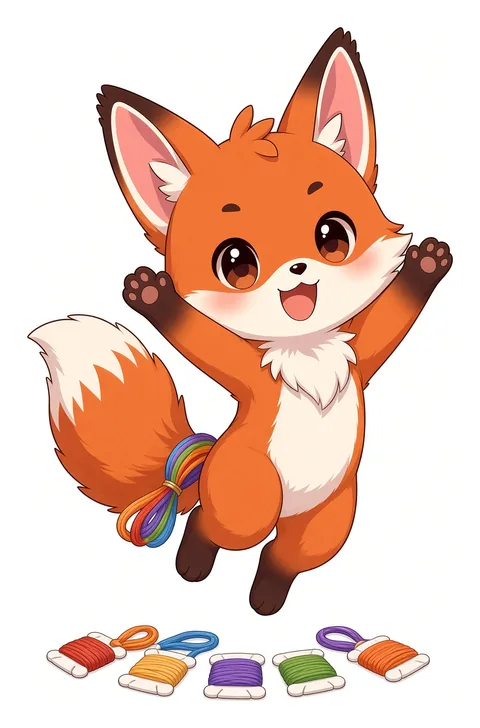
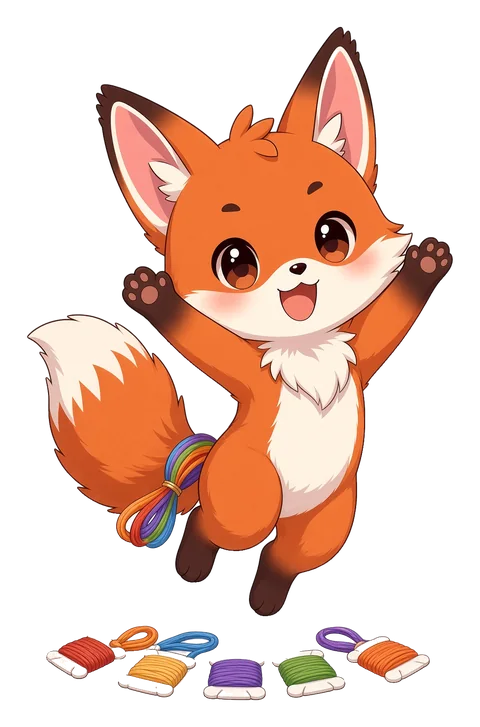
1.4 (dev): transparent Pip art (13 poses, WebP+PNG alpha, no JPG), no white tile; new poses thinking/pointing/peeking/neutral/greeting-alt with real triggers; tests

diff --git a/index.html b/index.html
@@ -78,7 +78,7 @@ mark.badline{background:#FBE3DA;color:var(--ink);border-radius:4px;padding:0 4px
 /* Pip companion */
 .herogrid{display:grid;gap:var(--s3)}
 .pip{display:grid;grid-template-columns:84px minmax(0,1fr);grid-template-areas:"fig msg" "tog msg";grid-template-rows:118px 44px;column-gap:var(--s3);row-gap:0}
-.pipfig{grid-area:fig;width:84px;height:118px;background:#fff;border:1px solid var(--line);border-radius:var(--r-m,14px);display:flex;align-items:center;justify-content:center;overflow:hidden}
+.pipfig{grid-area:fig;width:84px;height:118px;background:transparent;border:1px solid transparent;border-radius:var(--r-m,14px);display:flex;align-items:center;justify-content:center;overflow:hidden}
 .piphi{all:unset;display:block;width:100%;height:100%;cursor:pointer;border-radius:inherit}.piphi:focus-visible{outline:3px solid var(--sage-ink);outline-offset:-3px}.pipbubble.quiet{visibility:hidden}
 .pipfig img{width:100%;height:100%;object-fit:contain;padding:4px;display:block}
 .pipbubble{grid-area:msg;align-self:center;position:relative;margin:0;background:#fff;color:var(--ink);border:1px solid var(--line);border-radius:16px;padding:9px 13px;font-size:.92rem;line-height:1.38}
@@ -178,7 +178,9 @@ code{font-family:var(--mono);font-size:.9em;background:var(--surface-2);border-r
 .tourcard .tstep{font-size:.8rem;font-weight:700;color:var(--sage-ink);margin:0 0 2px}.tourcard .row{grid-column:1/-1;margin:4px 0 0;flex-wrap:wrap;gap:8px}.tourcard .row button{min-height:44px}
 .tourcard.invite{margin:0 0 var(--s2);padding:10px 12px;gap:6px 10px}.tourcard.invite .tmsg{margin:0;font-weight:650}.tourcard.invite .row{margin:0;flex-wrap:nowrap;gap:6px}.tourcard.invite .row button{padding:0 12px;font-size:.9rem;white-space:nowrap}@media(max-width:360px){#tourInvite .row button{padding:0 8px;font-size:.8rem;min-width:0}#tourInvite .row .ghost{padding:0 4px}.tourcard.invite{grid-template-columns:40px minmax(0,1fr)}.tourcard.invite .tpip{width:40px;height:54px}}.pip.inviting{display:none!important}
 .tour-target{outline:3px solid #c8642f!important;outline-offset:3px;box-shadow:0 0 0 7px rgba(200,100,47,.16);border-radius:10px}
-.askpip .atopics{display:flex;flex-wrap:wrap;gap:8px;margin:8px 0}.askpip .atopics button{min-height:44px}.askpip .ahead{display:flex;gap:10px;align-items:flex-start}.askpip .ahead img{width:44px;height:60px;object-fit:contain;flex:none}.askpip h2{font-size:1.05rem;margin:0}.askpip h2::before{content:none}.askpip .aans{background:var(--sage-50,#EEF3EE);border-radius:12px;padding:8px 12px;margin:6px 0}.hintpref{display:inline-flex;gap:8px;align-items:center;min-height:44px}.hintpref input{width:20px;height:20px}
+.askpip .atopics{display:flex;flex-wrap:wrap;gap:8px;margin:8px 0}.askpip .atopics button{min-height:44px}.askpip .ahead{display:flex;gap:10px;align-items:flex-start}.askpip{position:relative}.askpip .ahead img{width:44px;height:60px;object-fit:contain;flex:none}.askpip .apeek{display:none}
+@media(max-width:879px){.askpip{padding-right:62px;overflow:hidden}.askpip .ahead.peek>picture{display:none}.askpip .apeek{display:block;position:absolute;right:0;top:10px;width:52px;height:72px;pointer-events:none}.askpip .apeek img{width:100%;height:100%;object-fit:contain;object-position:right center;display:block}.askpipbtn img{object-position:right center}}
+.tourcard .tpip.mirror{transform:scaleX(-1)}.rpip{width:40px;height:56px;object-fit:contain;float:left;margin:0 10px 4px 0}.askpip h2{font-size:1.05rem;margin:0}.askpip h2::before{content:none}.askpip .aans{background:var(--sage-50,#EEF3EE);border-radius:12px;padding:8px 12px;margin:6px 0}.hintpref{display:inline-flex;gap:8px;align-items:center;min-height:44px}.hintpref input{width:20px;height:20px}
 @media (max-width:420px){.askpipbtn{padding:0 10px 0 4px}.tourcard{grid-template-columns:44px minmax(0,1fr);padding:10px 12px}.tourcard .tpip{width:44px;height:60px}}
 .psum .headline{position:relative;font-size:1.25rem;font-weight:800;margin:0 0 var(--s2);display:flex;align-items:center;gap:var(--s2)}
 .psum[data-ready=true]{background:var(--ok-bg);border-color:var(--ok-line)}
@@ -239,7 +241,7 @@ code{font-family:var(--mono);font-size:.9em;background:var(--surface-2);border-r
 @media print{.tabs,#helpView{display:none!important}.psum{box-shadow:none;border:1px solid #000}.tcard,.scard{break-inside:avoid}}
 </style>
 </head><body><div class="wrap">
-<header><svg class="logo" viewBox="0 0 64 64" role="img" aria-label="Floss Fox logo"><path d="M10 8l14 14h16L54 8l-2 26-20 24L12 34z" fill="#c8642f"/><path d="M14 13l9 10-7 6zM50 13l-9 10 7 6z" fill="#7a3a22"/><path d="M12 34l20 24 20-24-12 2-8 10-8-10z" fill="#fbf3e6"/><circle cx="24" cy="31" r="2.6" fill="#3b2f28"/><circle cx="40" cy="31" r="2.6" fill="#3b2f28"/><path d="M29 47h6l-3 4z" fill="#3b2f28"/><path d="M4 60c10-6 18-2 28-6s18 0 28-4" stroke="#5f7a5c" stroke-width="2.5" fill="none" stroke-linecap="round" stroke-dasharray="5 4"/></svg><div class="t"><p class="brand" id="appname"></p><p class="tagline">Thread lists for cross stitch</p></div><button type="button" class="askpipbtn noprint" id="askPipBtn" aria-expanded="false" aria-controls="askPip"><img src="assets/pip/pip-curious-160.jpg" width="160" height="215" alt="" decoding="async"> Ask Pip</button></header>
+<header><svg class="logo" viewBox="0 0 64 64" role="img" aria-label="Floss Fox logo"><path d="M10 8l14 14h16L54 8l-2 26-20 24L12 34z" fill="#c8642f"/><path d="M14 13l9 10-7 6zM50 13l-9 10 7 6z" fill="#7a3a22"/><path d="M12 34l20 24 20-24-12 2-8 10-8-10z" fill="#fbf3e6"/><circle cx="24" cy="31" r="2.6" fill="#3b2f28"/><circle cx="40" cy="31" r="2.6" fill="#3b2f28"/><path d="M29 47h6l-3 4z" fill="#3b2f28"/><path d="M4 60c10-6 18-2 28-6s18 0 28-4" stroke="#5f7a5c" stroke-width="2.5" fill="none" stroke-linecap="round" stroke-dasharray="5 4"/></svg><div class="t"><p class="brand" id="appname"></p><p class="tagline">Thread lists for cross stitch</p></div><button type="button" class="askpipbtn noprint" id="askPipBtn" aria-expanded="false" aria-controls="askPip"><picture><source media="(max-width:879px)" type="image/webp" srcset="assets/pip/pip-peeking-160.webp"><source media="(max-width:879px)" srcset="assets/pip/pip-peeking-160.png"><source type="image/webp" srcset="assets/pip/pip-curious-160.webp"><img src="assets/pip/pip-curious-160.png" width="160" height="214" alt="" decoding="async"></picture> Ask Pip</button></header>
 <nav class="tabs noprint" aria-label="Main"><button type="button" id="tabConvert" aria-pressed="true" aria-current="page"><span aria-hidden="true">🧵</span> Add colors</button><button type="button" id="tabProjects" aria-pressed="false"><span aria-hidden="true">📁</span> My projects <span id="projCount"></span></button><button type="button" id="tabHelp" aria-pressed="false"><span aria-hidden="true">💬</span> Help</button></nav>
 <section id="askPip" class="askpip noprint" hidden aria-labelledby="askPipH"></section>
 <div id="tourLive" class="sr" aria-live="polite"></div>
@@ -248,7 +250,7 @@ code{font-family:var(--mono);font-size:.9em;background:var(--surface-2);border-r
 <h1 id="heroH">Your thread list, made simple.</h1>
 <p class="lead">Paste your DMC colors, see what you need, and make a shopping list in seconds.</p>
 <ol class="steps" aria-label="How it works"><li><span class="num" aria-hidden="true">1</span> Add your colors</li><li><span class="num" aria-hidden="true">2</span> Check what you have</li><li><span class="num" aria-hidden="true">3</span> Get your shopping list</li></ol>
-<div class="herogrid"><aside id="pip" class="pip" aria-label="Pip, your helper"><div class="pipfig" id="pipFig"><button type="button" class="piphi" id="pipHi" aria-label="Say hi to Pip"><picture><source id="pipSrc" type="image/webp" srcset="assets/pip/pip-greeting-160.webp 160w, assets/pip/pip-greeting-320.webp 320w, assets/pip/pip-greeting-480.webp 480w" sizes="(min-width:880px) 170px, 84px"><img id="pipImg" data-art="greeting" src="assets/pip/pip-greeting-320.jpg" srcset="assets/pip/pip-greeting-160.jpg 160w, assets/pip/pip-greeting-320.jpg 320w, assets/pip/pip-greeting-480.jpg 480w" sizes="(min-width:880px) 170px, 84px" width="320" height="465" alt="" decoding="async"></picture></button></div><p class="pipbubble" id="pipMsg"></p><button class="piptog" id="pipToggle" type="button" aria-controls="pipFig pipMsg" aria-expanded="true">Hide Pip</button></aside><div class="heromain">
+<div class="herogrid"><aside id="pip" class="pip" aria-label="Pip, your helper"><div class="pipfig" id="pipFig"><button type="button" class="piphi" id="pipHi" aria-label="Say hi to Pip"><picture><source id="pipSrc" type="image/webp" srcset="assets/pip/pip-greeting-160.webp 160w, assets/pip/pip-greeting-320.webp 320w, assets/pip/pip-greeting-480.webp 480w" sizes="(min-width:880px) 170px, 84px"><img id="pipImg" data-art="greeting" src="assets/pip/pip-greeting-320.png" srcset="assets/pip/pip-greeting-160.png 160w, assets/pip/pip-greeting-320.png 320w, assets/pip/pip-greeting-480.png 480w" sizes="(min-width:880px) 170px, 84px" width="320" height="465" alt="" decoding="async"></picture></button></div><p class="pipbubble" id="pipMsg"></p><button class="piptog" id="pipToggle" type="button" aria-controls="pipFig pipMsg" aria-expanded="true">Hide Pip</button></aside><div class="heromain">
 <div id="exampleBanner" class="banner" role="status" hidden><span><b>You're trying an example.</b> These colors are a sample, not your thread. Nothing is saved unless you choose to.</span> <button type="button" class="sec small" id="exitExample">Back to my list</button></div>
 <label for="inp" class="biglabel">Paste your DMC color list</label>
 <textarea id="inp" placeholder="310, 321, 666, 823" aria-describedby="inpHint"></textarea>

diff --git a/pip.js b/pip.js
@@ -1,10 +1,13 @@
 /* Pip, the Floss Fox companion. Deterministic: reads the converter's existing parse result. No network, no AI. */
 (()=>{'use strict';
 const PIP_KEY='flossfox.pip.v1';           // stores only "shown"/"hidden"
+// Returning visitor = the tour was already completed or dismissed (tour.js pref). Read-only here.
+const returning=(()=>{try{const t=JSON.parse(localStorage.getItem(PIP_KEY.replace(/\.pip\.v1$/,'.tour.v1'))||'null');return !!t&&(t.status==='done'||t.status==='dismissed')}catch(e){return false}})();
 const SIZES=[160,320,480];
-// Poses that have real artwork. Poses without art fall back to an existing one; 'thinking' has no art and its state is never shown.
-const ART={greeting:'greeting',curious:'curious',puzzled:'puzzled',duplicates:'duplicates',helpful:'helpful',tangled:'tangled',celebrating:'celebrating',sleepy:'sleepy'};
-const FUTURE={thinking:'curious',proud:'greeting',peeking:'curious',teaching:'curious'};
+// Poses with real (transparent) artwork. 'thinking' is used only for real checks (Ask Pip answers, backup check); the 'processing' state stays unused (no fake delays).
+const ART={greeting:'greeting',curious:'curious',puzzled:'puzzled',duplicates:'duplicates',helpful:'helpful',tangled:'tangled',celebrating:'celebrating',sleepy:'sleepy',
+ thinking:'thinking',pointing:'pointing',peeking:'peeking',neutral:'neutral','greeting-alt':'greeting-alt'};
+const FUTURE={proud:'greeting',teaching:'curious'};
 const poseArt=p=>ART[p]||ART[FUTURE[p]]||'greeting';
 const short=t=>{t=String(t).replace(/\s+/g,' ').trim();return t.length>24?t.slice(0,23)+'…':t};
 function errMsg(r){if(r.errs.length>1)return`${r.errs.length} entries need a look. Check the highlighted lines below.`;const e=r.errs[0],x=short(e.t);
@@ -20,11 +23,13 @@ const TANGLE=["Oops! Got a little tangled up!","I meant to do that. Probably."];
    Base states come from the parse result; celebrating/tangled/sleepy are short overlays on top of a calm base. */
 const STATES={
  welcome:    {pose:'greeting',   pri:10, anim:'pop',   msg:()=>"Hi! I'm Pip. Let's get your threads sorted!"},
+ welcomeBack:{pose:'greeting-alt',pri:10,anim:'pop',   msg:()=>'Welcome back! Ready for another list?'},
+ idle:       {pose:'neutral',    pri:12, anim:'fade',  msg:()=>'Paste a list whenever you\'re ready.'},
  attentive:  {pose:'curious',    pri:20, anim:'tilt',  msg:()=>'Ready when you are!'},
  empty:      {pose:'curious',    pri:20, anim:'tilt',  msg:()=>'Add a few thread numbers to get started.'},
  listReady:  {pose:'curious',    pri:20, anim:'tilt',  msg:()=>"Your colors are ready! Let's see what you have."},
  helpful:    {pose:'helpful',    pri:25, anim:'pop',   msg:()=>{const a=alt();return a&&a.matched?`Look! I found ${a.brand} options for ${a.matched} of your ${plural(a.total,'color')}.`:''}},
- processing: {pose:'thinking',   pri:30, anim:'fade',  msg:()=>'Let me look at your list…'}, // reserved: no 'thinking' art and parsing is instant, so never shown
+ processing: {pose:'thinking',   pri:30, anim:'fade',  msg:()=>'Let me look at your list…'}, // reserved: parsing is instant, so never shown (no fake delays)
  celebrating:{pose:'celebrating',pri:35, anim:'cheer', msg:()=>'Yay! Your list is ready!'},
  duplicate:  {pose:'duplicates', pri:40, anim:'pop',   msg:r=>r.items.filter(i=>i.src.length>1).length===1?"Found a repeat! I've combined it for you.":"Found some repeats! I've combined them for you."},
  error:      {pose:'puzzled',    pri:50, anim:'tilt',  msg:errMsg},
@@ -35,27 +40,27 @@ const STATES={
  hintCompare:{pose:'helpful',    pri:22, anim:'pop',   msg:()=>{const n=window.FlossFoxAltFor?Math.max(FlossFoxAltFor('sullivans'),FlossFoxAltFor('anchor')):0;return n?'Want to compare another thread brand? Try "Brand to buy" in your shopping list.':''}}
 };
 const CALM=25; // overlays (tangled, sleepy) only sit on a base at or below this priority
-function stateFor(r,submitted){const c=['welcome'];
+function stateFor(r,submitted){const c=[greeted?'idle':returning?'welcomeBack':'welcome'];
  if(r.errs.length)c.push('error');if(r.items.some(i=>i.src.length>1))c.push('duplicate');
  if(r.items.length){c.push('listReady');const a=alt();if(a&&a.matched)c.push('helpful')}else if(submitted&&!r.errs.length)c.push('empty');
  return c.sort((a,b)=>STATES[b].pri-STATES[a].pri)[0]}
 const $=id=>document.getElementById(id);
 const el=$('pip');if(!el)return;
 const img=$('pipImg'),src=$('pipSrc'),msg=$('pipMsg'),fig=$('pipFig'),tog=$('pipToggle'),hi=$('pipHi');
-let touring=false,cur=null,base='welcome',lastR={items:[],errs:[]},over=null,overT=0,celebrated=false;
+let greeted=false,touring=false,cur=null,base='welcome',lastR={items:[],errs:[]},over=null,overT=0,celebrated=false;
 const T={celebrate:4000,tangle:2600,tangleGap:60000,idle:90000,minSleep:4000,throttle:1000};
 const set=(a,ext)=>SIZES.map(w=>`assets/pip/pip-${a}-${w}.${ext} ${w}w`).join(', ');
 function show(name,r,anim=true){const S=STATES[name];if(!S)return;if(r)lastR=r;const text=S.msg(lastR);
  if(cur===name&&msg.textContent===text)return; // nothing meaningful changed
  const a=poseArt(S.pose);cur=name;el.dataset.state=name;el.dataset.pose=a;
- if(img.dataset.art!==a){src.srcset=set(a,'webp');img.srcset=set(a,'jpg');img.src=`assets/pip/pip-${a}-320.jpg`;img.dataset.art=a}
+ if(img.dataset.art!==a){src.srcset=set(a,'webp');img.srcset=set(a,'png');img.src=`assets/pip/pip-${a}-320.png`;img.dataset.art=a}
  msg.textContent=text;msg.classList.toggle('quiet',!text);
  fig.classList.remove('pip-pop','pip-tilt','pip-fade','pip-cheer','pip-wiggle','pip-doze');if(anim){void fig.offsetWidth;fig.classList.add('pip-'+S.anim)}}
 const clearOver=()=>{clearTimeout(overT);over=null};
 function overlay(name,ms){clearOver();over=name;show(name);if(ms)overT=setTimeout(()=>{over=null;show(base,null,false)},ms)} // settle quietly: no new animation
 const quiet=()=>fig.hidden||document.hidden;
 // Called by the converter on every recalculation.
-function result(r,submitted){lastR=r;base=stateFor(r,submitted);
+function result(r,submitted){greeted=true;lastR=r;base=stateFor(r,submitted);
  if(STATES[base].pri>STATES.celebrating.pri)clearOver();          // errors/duplicates interrupt anything
  else if(over==='sleepy'||over==='tangled'||(over&&over.startsWith('hint')))clearOver();            // real input ends play and sleep
  const ex=typeof window.isExample==='function'&&window.isExample();
@@ -76,7 +81,7 @@ function arm(){clearTimeout(idleT);if(document.hidden||over==='sleepy')return;id
 function sleep(){if(touring||quiet()||over||STATES[base].pri>CALM)return arm();sleptAt=performance.now();overlay('sleepy',0)}
 function wake(){if(over!=='sleepy')return;const left=T.minSleep-(performance.now()-sleptAt);
  if(left>0){clearTimeout(overT);overT=setTimeout(wake,left);return}
- clearOver();show(base==='welcome'?'attentive':base,null,false);fig.classList.add('pip-fade');arm()}
+ clearOver();show(['welcome','welcomeBack','idle'].includes(base)?'attentive':base,null,false);fig.classList.add('pip-fade');arm()}
 function activity(){const now=performance.now();if(over==='sleepy')return wake();if(now-lastAct<T.throttle)return;lastAct=now;arm()}
 ['pointerdown','pointermove','keydown','scroll','wheel','touchstart'].forEach(e=>window.addEventListener(e,activity,{passive:true,capture:true}));
 document.addEventListener('visibilitychange',()=>{if(document.hidden)clearTimeout(idleT);else arm()});
@@ -95,11 +100,13 @@ const api={result,show,stateFor,STATES,ART,FUTURE,current:()=>cur,base:()=>base,
  hint:n=>{const S=STATES[n];if(!S||touring||over||quiet()||STATES[base].pri>CALM||!S.msg(lastR))return false;overlay(n,9000);arm();return true},
  _timing:o=>{Object.assign(T,o);arm();return{...T}}};
 /* global state */
-if(typeof state!=='undefined'&&(state.items.length||state.errs.length)){lastR=state;base=stateFor(state,true);show(base,state)}else show('welcome');
-const warm=()=>{const w=img.currentSrc&&/-(\d+)\.(webp|jpg)/.exec(img.currentSrc);const size=w?w[1]:'320',ext=w?w[2]:'webp';
- Object.values(ART).forEach(a=>{if(a!=='greeting'){const i=new Image();i.decoding='async';i.src=`assets/pip/pip-${a}-${size}.${ext}`}})};
+if(typeof state!=='undefined'&&(state.items.length||state.errs.length)){lastR=state;base=stateFor(state,true);show(base,state)}else{base=stateFor({items:[],errs:[]},false);show(base)}
+const warm=()=>{const w=img.currentSrc&&/-(\d+)\.(webp|png)/.exec(img.currentSrc);const size=w?w[1]:'320',ext=w?w[2]:'webp';
+ Object.values(ART).forEach(a=>{if(a!=='greeting'&&!['peeking','pointing','thinking'].includes(a)){const i=new Image();i.decoding='async';i.src=`assets/pip/pip-${a}-${size}.${ext}`}})};
 window.addEventListener('load',()=>(window.requestIdleCallback||setTimeout)(warm,{timeout:3000}));
-const inp=$('inp');inp.addEventListener('focus',()=>{if(cur==='welcome'&&!inp.value.trim())show('attentive')});
+const inp=$('inp');inp.addEventListener('focus',()=>{if(['welcome','welcomeBack','idle'].includes(cur)&&!inp.value.trim())show('attentive')});
+// Leaving an empty box: settle to the calm idle companion (curious stays for focus/exploring).
+inp.addEventListener('blur',()=>{if(cur==='attentive'&&!inp.value.trim()&&!over){greeted=true;base='idle';show('idle')}});
 arm();
 window.FlossFoxPip=api;
 })();

diff --git a/tour.js b/tour.js
@@ -15,7 +15,7 @@ const st=()=>(typeof state!=='undefined'?state:{items:[],errs:[]}); /* global st
 const dupN=()=>st().items.filter(i=>i.src.length>1).length;
 const destV=()=>($('dest')||{}).value||'dmc';
 const BR={dmc:'DMC',sullivans:'Sullivans',anchor:'Anchor'};
-const pipImg=(pose,cls)=>`<picture><source type="image/webp" srcset="assets/pip/pip-${pose}-160.webp"><img class="${cls}" src="assets/pip/pip-${pose}-160.jpg" width="160" height="215" alt="" decoding="async"></picture>`;
+const pipImg=(pose,cls)=>`<picture><source type="image/webp" srcset="assets/pip/pip-${pose}-160.webp"><img class="${cls}" src="assets/pip/pip-${pose}-160.png" width="160" height="240" alt="" decoding="async"></picture>`;
 const plural=(n,w)=>`${n} ${w}${n===1?'':'s'}`;
 const TOUR_SAMPLE='310\n321\n666\n699';
 const linksOn=()=>!!(window.FlossFoxLinks&&FlossFoxLinks.enabled&&FlossFoxLinks.enabled());
@@ -25,7 +25,7 @@ const toConvert=()=>{if(!inView('convertView'))$('tabConvert').click()};
 /* ---------- Step configuration (single source of truth) ---------- */
 const STEPS=[
  {id:'enter',title:'Add your colors',target:()=>$('inp'),anchor:()=>document.querySelector('.hero .row'),
-  pose:()=>st().errs.length?'puzzled':'curious',
+  pose:()=>st().errs.length?'puzzled':'pointing',
   msg:()=>"First, pop your DMC thread numbers in here! You can type them or paste your whole list.",
   more:()=>st().errs.length?`${plural(st().errs.length,'line')} couldn't be read yet. They're listed in red under Your colors.`:st().items.length?`You've added ${plural(st().items.length,'color')}. Tap Next when you're ready.`:"Then tap Add my colors. Want to practise first? I can fill in a short sample list.",
   extra:()=>st().items.length?'':`<button type="button" class="sec" data-t="example">Try an example (310, 321, 666, 699)</button>`,
@@ -42,13 +42,13 @@ const STEPS=[
   ready:()=>!$('results').hidden,
   help:'Swatches show the DMC color on screen, which is only an approximation.'},
  {id:'brands',title:'Other thread brands',target:()=>$('shopcard').hidden?null:$('dest'),anchor:()=>document.querySelector('#shopcard .toggle'),
-  pose:()=>'helpful',
+  pose:()=>'pointing',
   msg:()=>"Did you know you can look at other thread brands too? Let's explore your options!",
   more:()=>`Use <b>Brand to buy</b> to switch between DMC, Sullivans and Anchor. Matches come from published conversion charts, so colors may not be exact. Compare real thread if it matters. The cost table shows rough price estimates for each brand, before shipping; prices change, so check the store.${destV()!=='dmc'?` You're looking at ${BR[destV()]} now: ${plural(window.FlossFoxAltFor?FlossFoxAltFor(destV()):0,'color')} of ${st().items.length} have a chart match.`:''}`,
   ready:()=>!$('shopcard').hidden,optional:true,
   help:'Metallic and variegated threads are never swapped automatically.'},
  {id:'shop',title:'Your shopping list',target:()=>$('shopcard').hidden?null:$('shop'),anchor:()=>$('shop'),
-  pose:()=>'helpful',
+  pose:()=>'pointing',
   msg:()=>"Now let's get your threads organized so they're easier to shop for!",
   more:()=>`Tick the boxes as you shop, or use <b>Print list</b> and <b>Copy as text</b> below. <b>Save project</b> keeps the list in this browser; in My projects you can mark what you have, open <b>Shop my list</b> in the store, and download a spreadsheet (CSV).${linksOn()?' Store links are optional affiliate links. You never need them to use Floss Fox.':''}`,
   ready:()=>!$('shopcard').hidden,
@@ -61,6 +61,9 @@ const STEPS=[
 ];
 
 /* ---------- Tour card ---------- */
+// Pointing Pip: his paw points to his left (screen right). Mirror him when the target's centre is to his left on screen.
+function aim(){if(!card||!tgt)return;const i=card.querySelector('.tpip');if(!i||card.dataset.pose!=='pointing')return;const a=i.getBoundingClientRect(),b=tgt.getBoundingClientRect();
+ const mir=(b.left+b.right)/2<(a.left+a.right)/2;i.classList.toggle('mirror',mir);card.dataset.mirror=mir}
 let idx=-1,card=null,tgt=null,returnFocus=null,readSince=0;
 const live=t=>{const l=$('tourLive');if(l){l.textContent='';setTimeout(()=>{l.textContent=t},30)}};
 function clearTarget(){if(tgt)tgt.classList.remove('tour-target');tgt=null}
@@ -71,12 +74,12 @@ function place(el,anchor,focus){const a=anchor&&anchor.isConnected&&anchor.offse
 function render(focus){const S=STEPS[idx];if(!S)return;toConvert();removeCard();
  const t=S.target();const missing=!t&&!S.final;const notReady=S.ready&&!S.ready();
  if(t){t.classList.add('tour-target');tgt=t}
- const c=document.createElement('section');c.className='tourcard noprint';c.id='tourCard';c.setAttribute('aria-labelledby','tourH');c.dataset.step=S.id;c.dataset.pose=S.pose();
+ const c=document.createElement('section');c.className='tourcard noprint';c.id='tourCard';c.setAttribute('aria-labelledby','tourH');c.dataset.step=S.id;let pose=S.pose();if(pose==='pointing'&&!t)pose='helpful';c.dataset.pose=pose;
  const back=idx>0?'<button type="button" class="ghost" data-t="back">Back</button>':'';
  const nextLbl=S.final?'':notReady||missing?(S.optional?'Skip this step':'Skip this step'):'Next';
  const btns=S.final?'<button type="button" class="pri" data-t="start">Start using Floss Fox</button><button type="button" class="sec" data-t="tips">Explore more tips</button>':`${S.extra?S.extra():''}<button type="button" class="pri" data-t="next">${nextLbl}</button>${back}<button type="button" class="ghost" data-t="skip">Skip tour</button>`;
- c.innerHTML=`${pipImg(S.pose(),'tpip')}<div><p class="tstep">Step ${idx+1} of ${STEPS.length}</p><h2 id="tourH" tabindex="-1">${esc(S.title)}</h2><p class="tmsg">${esc(S.msg())}</p><p class="tmore">${S.more()}</p>${missing&&!notReady?'<p class="tmore">I can\'t find that part of the page right now, so you can skip ahead.</p>':''}</div><div class="row">${btns}${S.final?back:''}<button type="button" class="ghost" data-t="close" aria-label="Close the tour">Close</button></div>`;
- card=c;place(c,t?S.anchor():null,focus);readSince=performance.now();
+ c.innerHTML=`${pipImg(pose,'tpip')}<div><p class="tstep">Step ${idx+1} of ${STEPS.length}</p><h2 id="tourH" tabindex="-1">${esc(S.title)}</h2><p class="tmsg">${esc(S.msg())}</p><p class="tmore">${S.more()}</p>${missing&&!notReady?'<p class="tmore">I can\'t find that part of the page right now, so you can skip ahead.</p>':''}</div><div class="row">${btns}${S.final?back:''}<button type="button" class="ghost" data-t="close" aria-label="Close the tour">Close</button></div>`;
+ card=c;place(c,t?S.anchor():null,focus);aim();readSince=performance.now();
  setTourPref({status:'active',step:idx});if(PIP())PIP().setTour(true)}
 function go(i,announce=true){idx=Math.max(0,Math.min(STEPS.length-1,i));render(true);if(announce)live(`Pip's tour, step ${idx+1} of ${STEPS.length}: ${STEPS[idx].title}`)}
 function start(){closeAsk(false);removeInvite();returnFocus=document.activeElement&&document.activeElement!==document.body?document.activeElement:$('askPipBtn');toConvert();go(0)}
@@ -92,7 +95,7 @@ document.addEventListener('keydown',e=>{if(e.key!=='Escape')return;if($('askPip'
 document.addEventListener('flossfox:result',e=>{if(idx<0)return;const S=STEPS[idx];
  if(S.id==='enter'&&S.done()&&e.detail.submitted&&!st().errs.length){go(1);return}
  const f=card&&card.contains(document.activeElement)?document.activeElement.dataset.t:null;render(false);if(f){const b=card.querySelector(`[data-t="${f}"]`);if(b)b.focus()}});
-window.addEventListener('resize',()=>{if(card&&tgt&&!tgt.isConnected)render(false)});
+window.addEventListener('resize',()=>{if(card&&tgt&&!tgt.isConnected)render(false);else aim()});
 
 /* ---------- First-visit invite / resume ---------- */
 let invite=null;
@@ -124,7 +127,7 @@ const TOPICS=[
  ['tour','Start the tour again','']];
 let lastTopic=null;
 function renderAsk(){const c=context();const a=TOPICS.find(t=>t[0]===lastTopic);
- ask.innerHTML=`<div class="ahead">${pipImg('helpful','')}<div><h2 id="askPipH" tabindex="-1">Ask Pip</h2><p class="actx" data-ctx="${c.key}">${esc(c.text)}</p></div></div>
+ ask.innerHTML=`${a?'':`<span class="apeek" aria-hidden="true">${pipImg('peeking','')}</span>`}<div class="ahead${a?'':' peek'}" data-pose="${a?'thinking':'helpful'}">${pipImg(a?'thinking':'helpful','')}<div><h2 id="askPipH" tabindex="-1">Ask Pip</h2><p class="actx" data-ctx="${c.key}">${esc(c.text)}</p></div></div>
  ${idx>=0?'<div class="row"><button type="button" class="pri" data-a="resume">Back to the tour</button></div>':''}
  <div class="atopics" role="group" aria-label="Help topics">${TOPICS.map(t=>`<button type="button" class="sec" data-a="${t[0]}"${t[0]===lastTopic?' aria-pressed="true"':''}>${esc(t[1])}</button>`).join('')}</div>
  ${a?`<div class="aans" id="askAns" tabindex="-1"><b>${esc(a[1])}</b><p>${esc(a[2])}</p></div>`:''}

diff --git a/projects.js b/projects.js
@@ -78,7 +78,7 @@ function plan(p){const dest=p.buyBrand,threads=[];
  return{dest,threads,lines,review:by(['review']),have:by(['have','received']),sum,ready:sum.total>0&&sum.sufficient===sum.total}}
 // Pip celebrates once per real not-ready -> ready transition (pose only, no bubble: the headline right beside it already says it).
 const CEL=()=>{setTimeout(()=>{const f=document.getElementById('pCel');if(f){f.classList.remove('pip-cheer')}},4000);
- return`<span class="pcel pipfig pip-cheer" id="pCel" aria-hidden="true"><picture><source type="image/webp" srcset="assets/pip/pip-celebrating-160.webp 160w, assets/pip/pip-celebrating-320.webp 320w" sizes="64px"><img src="assets/pip/pip-celebrating-160.jpg" width="160" height="243" alt=""></picture></span>`};
+ return`<span class="pcel pipfig pip-cheer" id="pCel" aria-hidden="true"><picture><source type="image/webp" srcset="assets/pip/pip-celebrating-160.webp 160w, assets/pip/pip-celebrating-320.webp 320w" sizes="64px"><img src="assets/pip/pip-celebrating-160.png" width="160" height="243" alt=""></picture></span>`};
 const FL=()=>window.FlossFoxLinks||{buyLinks:()=>'',retailersFor:()=>[]};
 const DISC=()=>`<p class="affdisc noprint"><b>Affiliate links:</b> Floss Fox may earn a small commission at no extra cost to you. <a href="about.html#affiliates">More info</a>${window.FLOSS_FOX_TEST_LINKS?' (Preview: test links, not tracked.)':''}</p>`;
 const plural=(n,w,ws)=>`${n} ${n===1?w:(ws||w+'s')}`;
@@ -273,11 +273,13 @@ function csv(p){const P=plan(p),q=v=>{v=v===null||v===undefined?'':String(v);if(
   rows.push([p.name,lab(it.code),DMC[it.code].name,it.qty===null?'UNKNOWN':it.qty,(a=>a===0?'yes':a>=it.qty?'assumed':'partly assumed')(asmOf(it)),d.status||'not checked',d.owned===null?'':d.owned,BRAND[P.dest],r.ok?disp(P.dest,r.to):'',r.ok?r.prov:'',line?t.rem+(line.from.length>1?` (shared line total ${line.q})`:''):'',line?(line.bought?'yes':'no'):'',t.recv||'',SN[t.state],t.why,it.qty===null?'':asmOf(it)])});
  return rows.map(r=>r.map(q).join(',')).join('\r\n')+'\r\n'}
 function backup(){const d={app:'floss-fox',schema:SCHEMA,exported:nowISO(),projects:store.projects};download(JSON.stringify(d,null,2),'floss-fox-backup-'+nowISO().slice(0,10)+'.json','application/json');pstatus(`Backup downloaded with ${store.projects.length} project(s). Keep the file somewhere safe.`)}
+const RPIP=p=>`<picture><source type="image/webp" srcset="assets/pip/pip-${p}-160.webp"><img class="rpip" data-pose="${p}" src="assets/pip/pip-${p}-160.png" width="160" height="240" alt=""></picture>`;
 function restoreFile(file){const R=$('restorePanel');if(!file)return;$('backupBox').open=true;if(file.size>5e6){R.hidden=false;R.innerHTML='<b class="warn">That file is too large to be a Floss Fox backup.</b>';return}
+ R.hidden=false;R.innerHTML=RPIP('thinking')+'<p>Let me check this backup…</p>'; // shown only while the file is really being read and checked
  file.text().then(t=>{let d;try{d=JSON.parse(t)}catch(e){d=null}const m=d&&d.app==='floss-fox'?migrate(d):null;
-  if(!m||m.tooNew){pendingRestore=null;R.hidden=false;R.innerHTML=`<b class="warn">${m&&m.tooNew?'This backup was made by a newer version of Floss Fox and can\'t be restored here.':'This file isn\'t a valid Floss Fox backup. Nothing was changed.'}</b>`;pstatus('Restore failed: nothing changed.');return}
+  if(!m||m.tooNew){pendingRestore=null;R.hidden=false;R.innerHTML=RPIP('puzzled')+`<b class="warn">${m&&m.tooNew?'This backup was made by a newer version of Floss Fox and can\'t be restored here.':'This file isn\'t a valid Floss Fox backup. Nothing was changed.'}</b>`;pstatus('Restore failed: nothing changed.');return}
   pendingRestore=m.data.projects;const clash=pendingRestore.filter(p=>proj(p.id)).length;R.hidden=false;
-  R.innerHTML=`<p><b>Backup contains ${pendingRestore.length} project(s)</b>${m.skipped?`; ${m.skipped} damaged or duplicate entr${m.skipped>1?'ies were':'y was'} skipped`:''}. ${clash?`${clash} already exist here (same project).`:'None of them already exist here.'}</p>
+  R.innerHTML=RPIP('thinking')+`<p><b>I checked it. Backup contains ${pendingRestore.length} project(s)</b>${m.skipped?`; ${m.skipped} damaged or duplicate entr${m.skipped>1?'ies were':'y was'} skipped`:''}. ${clash?`${clash} already exist here (same project).`:'None of them already exist here.'}</p>
   ${clash?`<fieldset><legend>For projects that already exist:</legend><label><input type="radio" name="rmode" value="replace" checked> Replace mine with the backup version</label><br><label><input type="radio" name="rmode" value="skip"> Keep mine, skip those</label><br><label><input type="radio" name="rmode" value="copy"> Keep both (import as a renamed copy)</label></fieldset>`:''}
   <div class="row"><button type="button" class="pri" id="rGo">Restore</button><button type="button" class="sec" id="rCancel">Cancel</button></div>`;
   $('rCancel').onclick=()=>{pendingRestore=null;R.hidden=true;pstatus('Restore cancelled.')};

diff --git a/tests/regression.py b/tests/regression.py
@@ -338,16 +338,17 @@ with sync_playwright() as p:
     PK = os.environ.get('FF_PIP_KEY', 'flossfox.pip.v1')
     pp = page(412, True); reqs = []; pp.on('request', lambda r: reqs.append(r.url)); pp.goto(B); pp.wait_for_load_state('networkidle')
     pst = lambda g: g.evaluate("[FlossFoxPip.current(), document.getElementById('pip').dataset.pose, document.getElementById('pipMsg').textContent]")
-    ok('P1 Pip appears on load with welcome (greeting)', pp.locator('#pip').is_visible() and pst(pp) == ['welcome', 'greeting', "Hi! I'm Pip. Let's get your threads sorted!"], pst(pp))
+    ok('P1 Pip appears on load; returning visitor gets welcome back (greeting-alt)', pp.locator('#pip').is_visible() and pst(pp) == ['welcomeBack', 'greeting-alt', 'Welcome back! Ready for another list?'], pst(pp))
     ok('P1b image loaded and decorative (alt=""), bubble not a live region', pp.evaluate("document.getElementById('pipImg').naturalWidth") > 0 and pp.get_attribute('#pipImg', 'alt') == '' and pp.get_attribute('#pipMsg', 'aria-live') is None)
     from urllib.parse import urlparse
     bad = []
-    for a in ['greeting', 'curious', 'puzzled', 'duplicates', 'helpful', 'tangled', 'celebrating', 'sleepy']:
+    POSES = ['greeting', 'curious', 'puzzled', 'duplicates', 'helpful', 'tangled', 'celebrating', 'sleepy', 'thinking', 'pointing', 'peeking', 'neutral', 'greeting-alt']
+    for a in POSES:
         for w in [160, 320, 480]:
-            for ext in ['webp', 'jpg']:
+            for ext in ['webp', 'png']:
                 r = pp.request.get(B + f'assets/pip/pip-{a}-{w}.{ext}')
                 if r.status != 200 or len(r.body()) > 60000: bad.append((a, w, ext, r.status, len(r.body())))
-    ok('P2 all 48 Pip files (8 poses) load and are small (<60 KB)', not bad, bad)
+    ok('P2 all 78 Pip files (13 poses, WebP + PNG) load and are small (<60 KB)', not bad, bad)
     pp.wait_for_timeout(800)
     ok('P2b no requests outside the site origin', all(urlparse(u).netloc == urlparse(B).netloc for u in reqs if u.startswith('http')), [u for u in reqs if urlparse(u).netloc != urlparse(B).netloc][:5])
     def sub(g, t): g.fill('#inp', t); g.click('#go'); return pst(g)
@@ -358,7 +359,7 @@ with sync_playwright() as p:
     s3c = sub(pp, '310, 321, 415'); ok('P3c3 later clean lists do not celebrate again', s3c[0] == 'listReady', s3c)
     s4 = sub(pp, '310\n310\nzzz'); ok('P3d priority: error beats duplicate', s4[0] == 'error', s4)
     s5 = sub(pp, '   '); ok('P3e empty submit -> curious guidance', s5[:2] == ['empty', 'curious'], s5)
-    pp.click('#clear'); ok('P3f clear -> welcome', pst(pp)[0] == 'welcome')
+    pp.click('#clear'); ok('P3f clear -> calm idle (neutral)', pst(pp)[:2] == ['idle', 'neutral'], pst(pp))
     pp.click('#tabHelp'); pp.click('#tabConvert'); pp.locator('#inp').focus(); ok('P3g focusing the empty box -> attentive (curious)', pst(pp)[:2] == ['attentive', 'curious'], pst(pp))
     pp.click('#sample'); ok('P3h example list uses the same rules (duplicate/listReady)', pst(pp)[0] in ('duplicate', 'listReady', 'error'), pst(pp))
     sub(pp, '310, 321'); before = pst(pp)
@@ -400,7 +401,7 @@ with sync_playwright() as p:
     # all 8 states load the right art
     loaded = q.evaluate("""async()=>{const out={};for(const n of ['welcome','listReady','error','duplicate','helpful','tangled','celebrating','sleepy']){FlossFoxPip.show(n,{items:[{src:['a','a']}],errs:[{t:'x',kind:'code'}]});const i=document.getElementById('pipImg');await new Promise(r=>{if(i.complete&&i.naturalWidth)r();else{i.onload=r;i.onerror=r}});out[n]=[document.getElementById('pip').dataset.pose,i.naturalWidth>0,/pip-([a-z]+)-/.exec(i.currentSrc)[1]]}return out}""")
     ok('Q1 all 8 poses load their own artwork', all(v[1] and v[0] == v[2] for v in loaded.values()) and {v[0] for v in loaded.values()} == {'greeting', 'curious', 'puzzled', 'duplicates', 'helpful', 'tangled', 'celebrating', 'sleepy'}, loaded)
-    ok('Q1b no "thinking" art and its state is never used', q.evaluate("!('thinking' in FlossFoxPip.ART) && FlossFoxPip.STATES.processing.pose==='thinking'"))
+    ok('Q1b fake "processing" state still never shown (thinking only for real checks)', q.evaluate("FlossFoxPip.STATES.processing.pose==='thinking'"))
     old = q.evaluate("['welcome','attentive','empty','listReady','duplicate','error'].map(n=>[n,FlossFoxPip.STATES[n].pose])")
     ok('Q1c old states keep their poses', old == [['welcome', 'greeting'], ['attentive', 'curious'], ['empty', 'curious'], ['listReady', 'curious'], ['duplicate', 'duplicates'], ['error', 'puzzled']], old)
     q.goto(B); q.fill('#inp', '310, 321'); q.click('#go'); q.wait_for_timeout(4300)
@@ -585,7 +586,7 @@ with sync_playwright() as p:
     ok('T2 start: step 1 of 5, heading focused, real input highlighted', step(g) == 0 and 'Step 1 of 5' in g.inner_text('#tourCard') and g.evaluate("document.activeElement.id") == 'tourH' and g.evaluate("document.getElementById('inp').classList.contains('tour-target')") and g.locator('#tourInvite').count() == 0)
     g.wait_for_timeout(120); ok('T2b step change announced politely', 'step 1 of 5' in g.inner_text('#tourLive') and g.get_attribute('#tourLive', 'aria-live') == 'polite')
     ok('T2c S1 words and example offer', 'First, pop your DMC thread numbers in here! You can type them or paste your whole list.' in g.inner_text('#tourCard') and g.locator('#tourCard [data-t=example]').count() == 1 and g.input_value('#inp') == '')
-    ok('T15 S1 pose curious (right image)', cpose(g) == ['curious', 'curious'], cpose(g))
+    ok('T15 S1 pose pointing at the real input (right image, not mirrored)', cpose(g) == ['pointing', 'pointing'] and g.get_attribute('#tourCard', 'data-mirror') == 'false', cpose(g))
     ok('T2d the highlighted input stays usable', (g.fill('#inp', '310 x2\n321') or True) and g.input_value('#inp') == '310 x2\n321')
     g.click('#go'); g.wait_for_timeout(100)
     ok('T6 real list advances to step 2, card inside results', step(g) == 1 and g.evaluate("!!document.querySelector('#results #tourCard')") and "Here's what I found!" in g.inner_text('#tourCard') and 'recognized 2 colors' in g.inner_text('#tourCard'), g.inner_text('#tourCard'))
@@ -685,6 +686,57 @@ with sync_playwright() as p:
     ok('T13 reduced motion: no animation in the tour, Pip still', rmt.evaluate("document.getElementById('tourCard').getAnimations({subtree:true}).length") == 0 and rmt.evaluate("getComputedStyle(document.getElementById('pipImg')).animationName") == 'none')
     allrq = g.rq + d.rq + e.rq + v.rq + a.rq + h.rq
     ok('T22 tour + Ask Pip make no outside requests', all(_up(u).netloc == _up(B).netloc for u in allrq if u.startswith('http')), [u for u in allrq if _up(u).netloc != _up(B).netloc][:5])
+    # ---------- Milestone 1.4: transparent art + 5 new poses ----------
+    import io
+    from PIL import Image as _Im
+    noalpha = []
+    for a in POSES:
+        for w in [160, 320, 480]:
+            for ext in ['webp', 'png']:
+                r = pp.request.get(B + f'assets/pip/pip-{a}-{w}.{ext}'); im = _Im.open(io.BytesIO(r.body()))
+                has = im.mode in ('RGBA', 'LA') or (im.mode == 'P' and 'transparency' in im.info)
+                corner = im.convert('RGBA').getpixel((0, 0))[3] if has else 255
+                if r.status != 200 or not has or corner != 0 or im.width != w: noalpha.append((a, w, ext, im.mode, corner))
+    ok('M1 all 78 Pip images load, have an alpha channel and transparent corners', not noalpha, noalpha)
+    ok('M1b no JPG Pip assets referenced anywhere', pp.request.get(B + 'assets/pip/pip-greeting-320.jpg').status == 404 and '.jpg' not in pp.evaluate("document.getElementById('pipImg').srcset+document.getElementById('pipImg').src"))
+    tile = pp.evaluate("(()=>{const f=getComputedStyle(document.getElementById('pipFig'));const r=document.getElementById('pipFig').getBoundingClientRect();return [f.backgroundColor,f.borderTopColor,Math.round(r.width),Math.round(r.height)]})()")
+    ok('M2 no white tile: frame transparent, same 84x118 frame on phones', tile[0] in ('rgba(0, 0, 0, 0)', 'transparent') and tile[1] in ('rgba(0, 0, 0, 0)', 'transparent') and tile[2:] == [84, 118], tile)
+    pdm = page(1280); pdm.goto(B); fr = pdm.evaluate("(()=>{const r=document.getElementById('pipFig').getBoundingClientRect();return [Math.round(r.width),Math.round(r.height)]})()")
+    ok('M2b same 140x196 frame on desktop', fr == [140, 196], fr)
+    fv = tp(1280); ok('M3 first visit keeps the original greeting', fv.evaluate("[FlossFoxPip.current(),document.getElementById('pip').dataset.pose]") == ['welcome', 'greeting'])
+    rv = tp(412, fresh=False); ok('M4 returning visitor (tour done/dismissed): welcome back with greeting-alt', rv.evaluate("[FlossFoxPip.current(),document.getElementById('pip').dataset.pose]") == ['welcomeBack', 'greeting-alt'])
+    rv.click('#inp'); f1 = rv.evaluate("FlossFoxPip.current()"); rv.click('#heroH'); f2 = rv.evaluate("[FlossFoxPip.current(),document.getElementById('pip').dataset.pose]")
+    ok('M5 focus -> curious (attentive); leaving the empty box -> calm neutral idle', f1 == 'attentive' and f2 == ['idle', 'neutral'], (f1, f2))
+    rv.fill('#inp', '310'); rv.click('#go'); ok('M5b a real list still wins over idle', rv.evaluate("FlossFoxPip.current()") in ('listReady', 'celebrating'))
+    rv.click('#askPipBtn'); pk = rv.evaluate("""(()=>{const p=document.getElementById('askPip').getBoundingClientRect(),i=document.querySelector('#askPip .apeek img');if(!i||!i.offsetParent)return null;const r=i.getBoundingClientRect();
+      const hit=[...document.querySelectorAll('#askPip button,#askPip input,#askPip label')].filter(b=>{const q=b.getBoundingClientRect();return !(q.right<=r.left||q.left>=r.right||q.bottom<=r.top||q.top>=r.bottom)}).length;return [Math.round(p.right-r.right),hit,/pip-peeking-160/.test(i.currentSrc)]})()""")
+    ok('M6 phone Ask Pip: peeking Pip pinned flush right, covers no control', pk is not None and 0 <= pk[0] <= 1 and pk[1] == 0 and pk[2], pk)
+    ok('M6b compact Ask Pip button uses peeking on phones', 'pip-peeking-160' in rv.evaluate("document.querySelector('#askPipBtn img').currentSrc"))
+    rv.click('#askPip [data-a=enter]'); rv.wait_for_timeout(400); th = rv.evaluate("[document.querySelector('#askPip .ahead').dataset.pose,/pip-thinking-160/.test(document.querySelector('#askPip .ahead img').currentSrc||document.querySelector('#askPip .ahead img').src),!!document.querySelector('#askPip .apeek')]")
+    ok('M7 Ask Pip answer -> thinking (a real "let me check" moment), no double Pip', th == ['thinking', True, False], th)
+    ok('M7b desktop Ask Pip: no peeking, helpful header', (pdm.click('#askPipBtn') or True) and not pdm.locator('#askPip .apeek img').is_visible() and pdm.evaluate("document.querySelector('#askPip .ahead').dataset.pose") == 'helpful')
+    bk = tp(412, fresh=False); bk.click('#tabProjects'); bk.click('#backupBox summary')
+    bk.set_input_files('#restoreFile', {'name': 'b.json', 'mimeType': 'application/json', 'buffer': open(FIX, 'rb').read()}); bk.wait_for_timeout(300)
+    ok('M8 restoring a backup: thinking Pip with the real check result', bk.get_attribute('#restorePanel .rpip', 'data-pose') == 'thinking' and 'I checked it' in bk.inner_text('#restorePanel'))
+    bk.set_input_files('#restoreFile', {'name': 'x.json', 'mimeType': 'application/json', 'buffer': b'not json'}); bk.wait_for_timeout(300)
+    ok('M8b invalid backup -> puzzled, nothing changed', bk.get_attribute('#restorePanel .rpip', 'data-pose') == 'puzzled' and 'Nothing was changed' in bk.inner_text('#restorePanel'))
+    pt = tp(412); pt.click('#tourYes'); poses = []
+    def tinfo(g): return g.evaluate("""(()=>{const c=document.getElementById('tourCard'),i=c.querySelector('.tpip'),t=document.querySelector('.tour-target');const a=i.getBoundingClientRect();let ov=false,dir=null;
+      if(t){const b=t.getBoundingClientRect();ov=!(a.right<=b.left||a.left>=b.right||a.bottom<=b.top||a.top>=b.bottom);dir=(b.left+b.right)/2<(a.left+a.right)/2}return [c.dataset.pose,c.dataset.mirror||null,ov,dir,i.classList.contains('mirror')]})()""")
+    poses.append(tinfo(pt)); addlist(pt, '310 x2\n321'); poses.append(tinfo(pt)); nxt(pt); poses.append(tinfo(pt)); nxt(pt); poses.append(tinfo(pt)); nxt(pt); poses.append(tinfo(pt))
+    ok('M9 tour: pointing on the control steps (1, 3, 4), helpful on results, celebrating at the end', [x[0] for x in poses] == ['pointing', 'helpful', 'pointing', 'pointing', 'celebrating'], poses)
+    ok('M9b pointing Pip never covers the target and mirrors exactly when the target is on his other side', all(not x[2] and x[4] == x[3] for x in poses if x[0] == 'pointing'), poses)
+    pd2 = tp(1280); pd2.click('#tourYes'); d1 = tinfo(pd2); ok('M9c desktop step 1 pointing, not covering the input', d1[0] == 'pointing' and not d1[2] and d1[4] == d1[3], d1)
+    lay2 = []
+    for w in [320, 412, 880, 1280]:
+        g2 = tp(w, fresh=False); t0 = g2.evaluate("document.getElementById('inp').getBoundingClientRect().top+scrollY"); tt = []
+        for n in ['welcomeBack', 'idle', 'attentive', 'helpful', 'welcome']:
+            g2.evaluate(f"FlossFoxPip.show('{n}')"); g2.wait_for_timeout(40); tt.append(g2.evaluate("document.getElementById('inp').getBoundingClientRect().top+scrollY"))
+        if any(t != t0 for t in tt) or g2.evaluate('document.documentElement.scrollWidth') > w: lay2.append((w, t0, tt))
+        g2.context.close()
+    ok('M10 new poses: no layout shift or overflow 320-1280', not lay2, lay2)
+    rmn = tp(412, fresh=False, rm=True); rmn.evaluate("FlossFoxPip.show('idle')"); ok('M11 reduced motion on new poses', rmn.evaluate("getComputedStyle(document.getElementById('pipImg')).animationName") == 'none')
+    hdn = tp(412, fresh=False, init=f"localStorage.setItem('{PFX}.pip.v1','hidden')"); hdn.click('#askPipBtn'); ok('M12 Pip hidden: Ask Pip still shows its peeking Pip', hdn.locator('#askPip .apeek img').is_visible() and hdn.locator('#pipFig').is_hidden())
     # ---------- Phone layout ----------
     pm = page(412, True); pm.goto(B + '?sample'); pm.wait_for_timeout(200)
     ok('phone convert: no horizontal overflow', pm.evaluate('document.documentElement.scrollWidth') <= 412)
